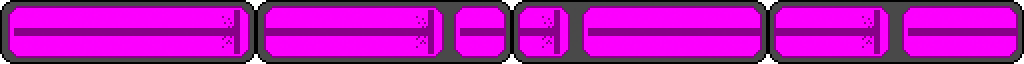
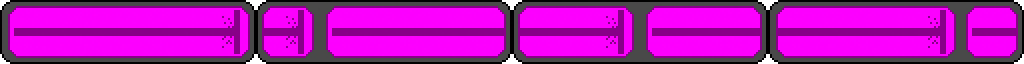
LAZERRRRRBEAMMMMMM

diff --git a/PlayerController.cs b/PlayerController.cs
@@ -224,8 +224,8 @@ namespace Gaming
                 delay = 60 / (float)BPM;
 
                 beat = (beat + 1) % 8;
-                Measure[(beat + 1) % 8] = Actions.None;
-                
+                Measure[(beat + 5) % 8] = Actions.None;
+
             }
 
             animationTimer += (float)gameTime.ElapsedGameTime.TotalSeconds;
@@ -240,14 +240,18 @@ namespace Gaming
             //handle keyboard input
             currentKeyboardState = Keyboard.GetState();
             int effectivebeat = beat;
-            if(laserstartind != -1 && laserstartind != beat || brickstartind != -1 && brickstartind != beat)
+            if (laserstartind != -1 && laserstartind != beat || brickstartind != -1 && brickstartind != beat)
             {
-                if(Measure[beat] == Actions.Laser)
+                if (Measure[beat] == Actions.Laser)
                 {
                     effectivebeat = (laserstartind + 4) % 8;
                 }
+                if (Measure[beat] == Actions.Brick)
+                {
+                    effectivebeat = (brickstartind + 2) % 8;
+                }
             }
-            
+
             if (currentKeyboardState.IsKeyDown(Keys.D) && priorKeyboardState.IsKeyUp(Keys.D))
             {
                 Measure[effectivebeat] = Actions.Move;
@@ -295,18 +299,47 @@ namespace Gaming
             if (currentKeyboardState.IsKeyDown(Keys.Q) && priorKeyboardState.IsKeyUp(Keys.Q))
             {
                 Measure[effectivebeat] = Actions.Brick;
+                if (effectivebeat != brickstartind + 2)
+                    brickstartind = effectivebeat;
             }
             if (currentKeyboardState.IsKeyDown(Keys.E) && priorKeyboardState.IsKeyUp(Keys.E))
             {
                 Measure[effectivebeat] = Actions.Laser;
+                if (effectivebeat != laserstartind + 4)
+                    laserstartind = effectivebeat;
             }
             if (currentKeyboardState.IsKeyDown(Keys.U) && priorKeyboardState.IsKeyUp(Keys.U))
             {
                 Measure[effectivebeat] = Actions.Brick;
+                if (effectivebeat == brickstartind + 2)
+                    brickstartind = effectivebeat;
             }
             if (currentKeyboardState.IsKeyDown(Keys.O) && priorKeyboardState.IsKeyUp(Keys.O))
             {
                 Measure[effectivebeat] = Actions.Laser;
+                if (effectivebeat == laserstartind + 4)
+                    laserstartind = effectivebeat;
+            }
+
+            if (Measure[effectivebeat] == Actions.Laser)
+            {
+                for (int i = 1; i < 4; i++)
+                {
+                    Measure[(effectivebeat + i) % 8] = Actions.Laser;
+                }
+            }
+            else if (Measure[effectivebeat] == Actions.Brick)
+            {
+                Measure[(effectivebeat + 1) % 8] = Actions.Brick;
+                Measure[(effectivebeat + 2) % 8] = Actions.None;
+                Measure[(effectivebeat + 3) % 8] = Actions.None;
+            }
+            else
+            {
+                for (int i = 1; i < 4; i++)
+                {
+                    Measure[(effectivebeat + i) % 8] = Actions.None;
+                }
             }
             int facingModified = (((((int)curFacing + 1) / 2) % 2) * 2) - 1;
 
@@ -427,14 +460,16 @@ namespace Gaming
             
             #endregion
             spriteBatch.Draw(barTexture, new Vector2(64 + 8, 856), Color.White);
-            spriteBatch.Draw(barTexture, new Vector2(64 + 8 + 4 + 256, 856), Color.White);
+            spriteBatch.Draw(barTexture, new Vector2(64 + 8 + 256, 856), Color.White);
 
 
 
             //spriteBatch.Draw(playerTexture, position, source, Color.White, 0, Vector2.Zero, 1f, SpriteEffects.FlipHorizontally, 0);
-            for(int ind = 0; ind < 8; ind++)
+            for (int ind = 0; ind < 8; ind++)
             {
+                int offset = 0;
                 Texture2D Placeholder = null;
+                Color transparencyFilter = Color.White;
                 switch (Measure[ind])
                 {
                     case Actions.Move:
@@ -445,16 +480,24 @@ namespace Gaming
                         break;
                     case Actions.Brick:
                         Placeholder = brickTexture;
+                        if ((brickstartind % 4) % 2 != 0)
+                        {
+                            offset = 1;
+                        }
                         break;
                     case Actions.Laser:
                         Placeholder = laserTexture;
+                        offset = laserstartind % 4;
                         break;
                 }
+                if (ind == (beat + 6) % 8)
+                    transparencyFilter = Color.White * 0.5f;
+
                 if (Placeholder != null)
-                spriteBatch.Draw(Placeholder, new Vector2(64 + 8 + (4 * ind/4) + (64 * ind), 856), new Rectangle((8 * ind / 4) + 64 * ind, 0, 64, 64), Color.White, 0, Vector2.Zero, 1f, SpriteEffects.None, 0);
+                    spriteBatch.Draw(Placeholder, new Vector2(64 + 8 + (64 * ind), 856), new Rectangle(offset * 256 + 64 * (ind % 4), 0, 64, 64), transparencyFilter, 0, Vector2.Zero, 1f, SpriteEffects.None, 0);
             }
             
-            spriteBatch.Draw(timeMarkerTexture, new Vector2(32 + 6 + (4 * beat / 4) + (64 * beat), 856), Color.White);
+            spriteBatch.Draw(timeMarkerTexture, new Vector2(32 + 8 + (64 * beat), 856), Color.White);
             if(beat == 0)
             {
                 spriteBatch.Draw(timeMarkerTexture, new Vector2(32 + 6 + (8) + (64 * 8), 856), Color.White);
